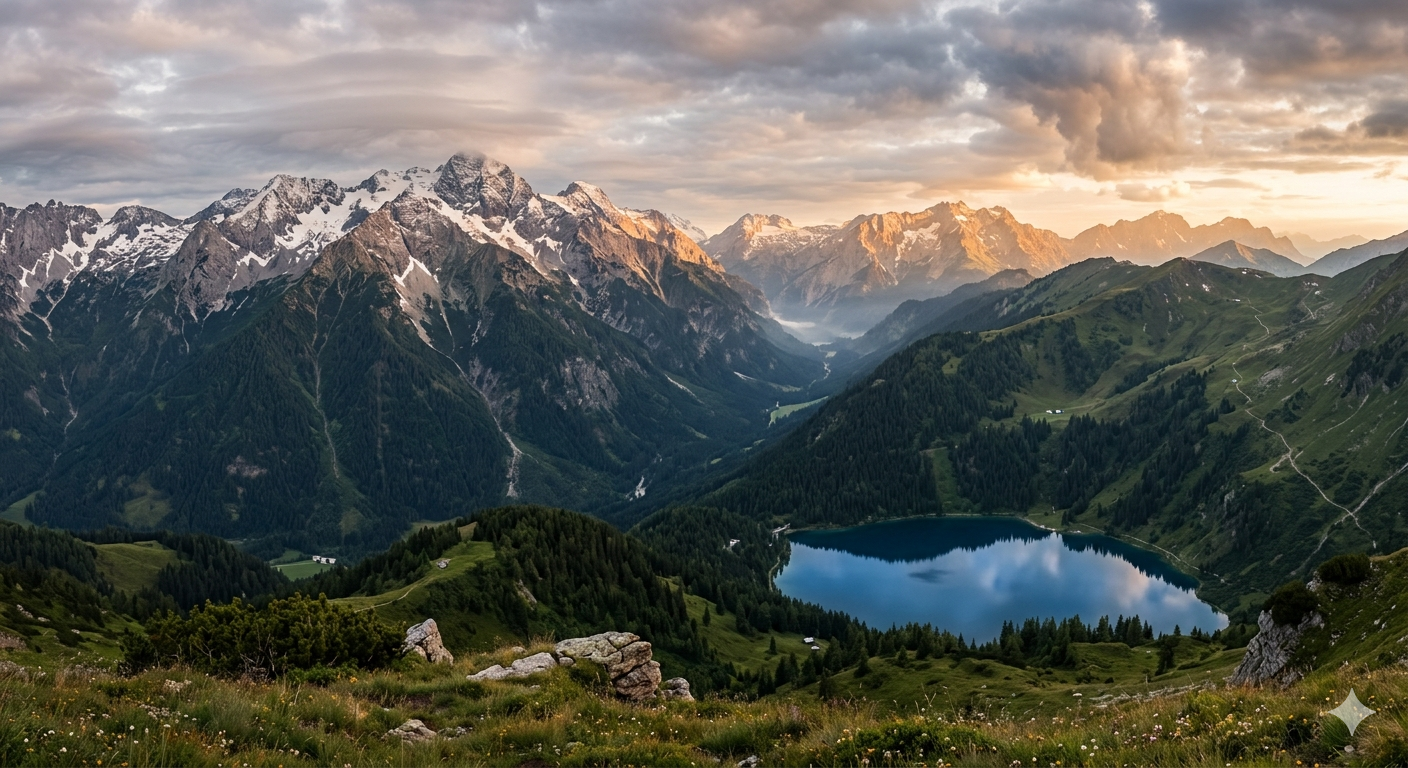
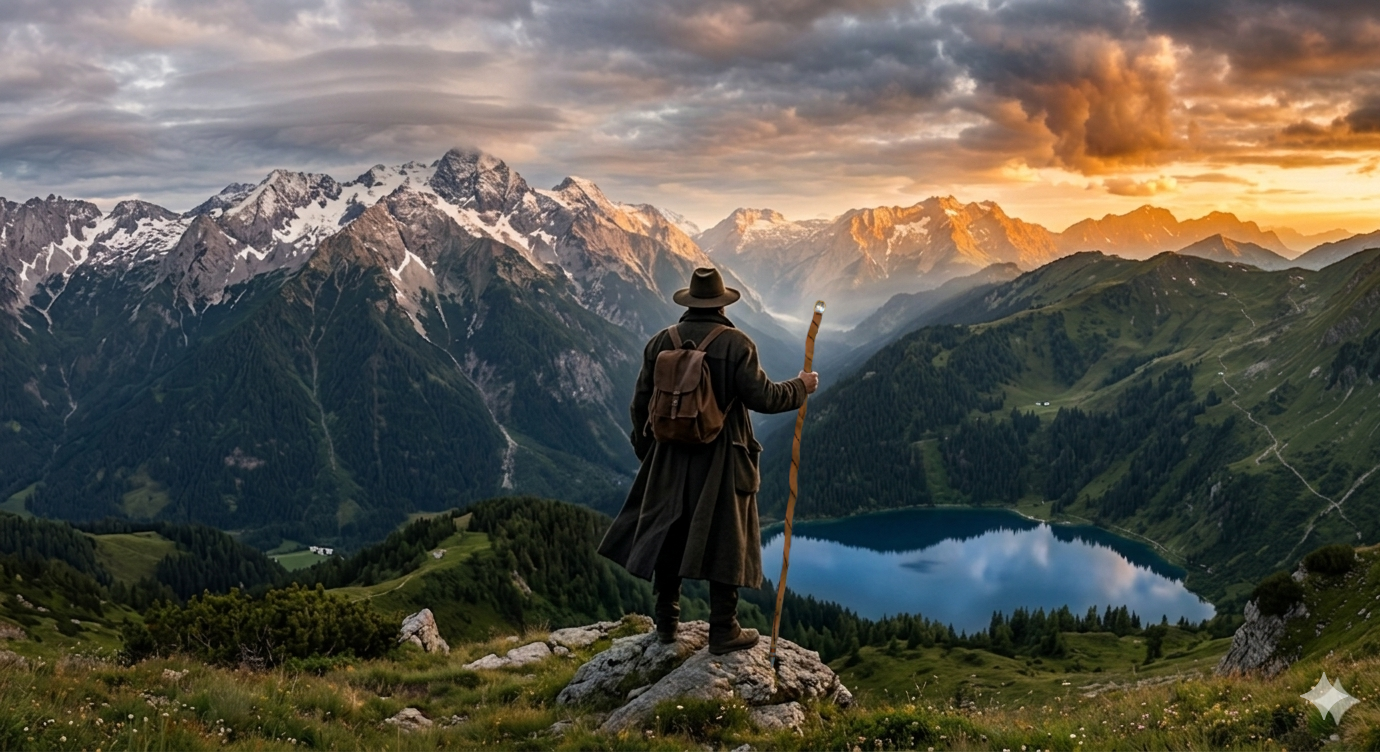
some updates

diff --git a/www/index.html b/www/index.html
@@ -663,14 +663,14 @@
     <div class="hero-vignette"></div>
 
     <div class="hero-content">
-      <p class="mono-label">Teamspeak &nbsp;·&nbsp; Anarchie &nbsp;·&nbsp; Wahrheit</p>
+      <p class="mono-label">Mumble &nbsp;·&nbsp; CB-Funk &nbsp;·&nbsp; Anarchie &nbsp;·&nbsp; Wahrheit</p>
       <h1 class="glitch" data-text="2BCB">2BCB</h1>
       <p class="hero-subtitle">Das Echo der ungeschminkten Wahrheit</p>
       <p class="hero-tagline">
         Kein Safe-Space. Keine Admins. Keine Regeln.<br>
         Nur dein wahres, ungeschminktes Ich.
       </p>
-      <a href="ts3server://2bcb.com" class="btn">Server betreten</a>
+      <a href="mumble://2bcb.feste-ip.net:64738" class="btn">Server betreten</a>
     </div>
 
     <div class="scroll-indicator">
@@ -689,10 +689,32 @@
           <div class="red-rule"></div>
 
           <p>
-            <strong>2BCB</strong> ist kein gewöhnlicher TeamSpeak-Server.
+            <strong>2BCB</strong> ist kein gewöhnlicher Mumble-Server.
             Er ist ein radikaler Freiraum ohne Regeln, Gesetze oder Administratoren,
             die in dein Handeln eingreifen – inspiriert durch die erbarmungslose
             Freiheit des legendären Minecraft-Servers <strong>2b2t.org</strong>.
+          </p>
+          <p>
+            Das <strong>CB</strong> in 2BCB steht für <strong>CB-Funk</strong> – und wie
+            im echten CB-Funk gilt auch hier: Es gibt keine Regeln,
+            sieht man einmal vom vorgeschriebenen Verwendungszweck der CB-Kanäle ab.
+            Jeder sendet. Jeder hört. Niemand schreibt vor, was gesagt werden darf.
+          </p>
+          <p>
+            Im CB-Funk existieren sogenannte <strong>Gateways</strong> – Brücken, die
+            analogen Funkverkehr über das Internet tunneln und so weit entfernte
+            Stationen miteinander verbinden. Chat-Server wie Mumble oder TeamSpeak
+            erfüllen dabei exakt diese Rolle: Sie sind die digitale Leitung,
+            durch die Stimmen reisen, die sonst nie zueinander gefunden hätten.
+          </p>
+          <p>
+            Auch <strong>2BCB</strong> ist ein solches <strong>Gate</strong> –
+            aber kein bloßes Relay für Funkwellen. Es ist ein Tor in eine Zukunft,
+            in der <strong>Wahrheit und Authentizität</strong> Gesetze und Strafgerichte
+            vollständig ersetzen. Eine Zukunft, in der Religionen durch
+            <strong>entfesselte Kreativität</strong> abgelöst werden, in der der Mensch
+            nicht mehr durch Angst vor Strafe oder Verdammnis gelenkt wird,
+            sondern durch das, was er in seiner tiefsten Freiheit wirklich ist.
           </p>
           <p>
             In einer Welt voller Regeln ist der Mensch nur deshalb <strong>„gut"</strong>,
@@ -808,11 +830,11 @@
 
         <div class="feature-card reveal">
           <span class="feature-icon">🎙</span>
-          <h3 class="feature-title">TeamSpeak 3 &amp; 5</h3>
+          <h3 class="feature-title">Mumble Server</h3>
           <p class="feature-text">
-            Erreichbar über den klassischen TeamSpeak 3 Client sowie den modernen
-            TeamSpeak 5 Client. Ein Klick, und du bist mitten im Experiment.
-            Adresse: <strong style="color:var(--red)">2bcb.com</strong>
+            Erreichbar über jeden Mumble-Client. Ein Klick, und du bist mitten im Experiment.
+            Adresse: <strong style="color:var(--red)">2bcb.feste-ip.net</strong> &nbsp;·&nbsp;
+            Port: <strong style="color:var(--red)">64738</strong>
           </p>
         </div>
       </div>
@@ -868,7 +890,7 @@
         Minecraft-Server der Welt. Kein Ort für schwache Gemüter.
         Kein Platz für Heuchler.
       </p>
-      <a href="ts3server://2bcb.com" class="btn" style="margin-top:2.5rem;">Ich bin bereit</a>
+      <a href="mumble://2bcb.feste-ip.net:64738" class="btn" style="margin-top:2.5rem;">Ich bin bereit</a>
     </div>
   </section>
 
@@ -882,16 +904,28 @@
       </div>
 
       <div class="connect-inner reveal">
-        <div class="ts-badge">🎙 &nbsp; TeamSpeak 3 &amp; 5 kompatibel</div>
+        <div class="ts-badge">🎙 &nbsp; Mumble &nbsp;·&nbsp; Port 64738</div>
         <br>
-        <div class="ts-address" id="tsAddr" onclick="copyAddr()" title="Klicken zum Kopieren">2bcb.com</div>
-        <p class="copy-hint">← Klicken zum Kopieren</p>
+        <div class="ts-address" id="tsAddr" onclick="copyAddr()" title="Klicken zum Kopieren">2bcb.feste-ip.net</div>
+        <p class="copy-hint">← Klicken zum Kopieren &nbsp;·&nbsp; Port: 64738</p>
         <p id="copy-confirm">✓ &nbsp; Adresse kopiert!</p>
         <p class="connect-desc">
-          Trage die Adresse manuell in deinen TeamSpeak-Client ein,
+          Trage die Adresse manuell in deinen Mumble-Client ein (Port: <strong style="color:var(--white)">64738</strong>),
           oder klicke auf „Direkt verbinden", um den Client automatisch zu starten.
         </p>
-        <a href="ts3server://2bcb.com" class="btn" style="margin-top:1.8rem;">Direkt verbinden</a>
+        <a href="mumble://2bcb.feste-ip.net:64738" class="btn" style="margin-top:1.8rem;">Direkt verbinden</a>
+
+        <div style="margin-top:2.2rem; padding-top:1.8rem; border-top:1px solid rgba(204,0,0,.2); text-align:left;">
+          <p class="section-eyebrow" style="margin-bottom:.6rem;">Hinweis &amp; Haftungsausschluss</p>
+          <p class="connect-desc" style="font-size:.88rem; color:rgba(255,255,255,.35); line-height:1.75;">
+            Der Betreiber dieses Servers übernimmt <strong style="color:rgba(255,255,255,.5)">keine Verantwortung
+            und keine Haftung</strong> für Äußerungen, die auf diesem Server getätigt werden.
+            Es ist jedem Benutzer ausdrücklich erlaubt und freigestellt,
+            andere Nutzer bei Bedarf zu bannen oder stumm zu schalten –
+            ganz ohne Begründung, ganz ohne Erlaubnis.
+            Das ist gelebte Anarchie: <em>Kein Admin. Keine Regeln.</em>
+          </p>
+        </div>
       </div>
     </div>
   </section>
@@ -906,7 +940,7 @@
       <a href="#features">Features</a>
       <a href="#gallery">Atmosphäre</a>
       <a href="#connect">Verbinden</a>
-      <a href="ts3server://2bcb.com">TeamSpeak</a>
+      <a href="mumble://2bcb.feste-ip.net:64738">Mumble</a>
     </nav>
 
     <p class="footer-copy">
@@ -941,7 +975,7 @@
 
     // ── Copy TS address ─────────────────────────────────────
     function copyAddr() {
-      navigator.clipboard.writeText('2bcb.com').then(() => {
+      navigator.clipboard.writeText('2bcb.feste-ip.net').then(() => {
         const msg = document.getElementById('copy-confirm');
         msg.style.display = 'block';
         setTimeout(() => { msg.style.display = 'none'; }, 2800);

diff --git a/server.py b/server.py
@@ -3,18 +3,48 @@
 
 import http.server
 import socketserver
+<<<<<<< HEAD
 import os
 
 PORT = 8080
 DIRECTORY = os.path.join(os.path.dirname(os.path.abspath(__file__)), "www")
+=======
+import logging
+import os
+
+PORT = 8080
+BASE_DIR = os.path.dirname(os.path.abspath(__file__))
+DIRECTORY = os.path.join(BASE_DIR, "www")
+LOG_FILE = os.path.join(BASE_DIR, "log", "server.log")
+
+logging.basicConfig(
+    level=logging.INFO,
+    format="%(asctime)s %(message)s",
+    handlers=[
+        logging.FileHandler(LOG_FILE),
+        logging.StreamHandler(),
+    ],
+)
+logger = logging.getLogger(__name__)
+>>>>>>> 1648e9f (some updates)
 
 
 class Handler(http.server.SimpleHTTPRequestHandler):
     def __init__(self, *args, **kwargs):
         super().__init__(*args, directory=DIRECTORY, **kwargs)
 
+<<<<<<< HEAD
 
 if __name__ == "__main__":
     with socketserver.TCPServer(("", PORT), Handler) as httpd:
         print(f"Serving {DIRECTORY!r} on port {PORT}")
+=======
+    def log_message(self, format, *args):
+        logger.info("%s - %s", self.address_string(), format % args)
+
+
+if __name__ == "__main__":
+    with socketserver.TCPServer(("", PORT), Handler) as httpd:
+        logger.info("Serving %r on port %d", DIRECTORY, PORT)
+>>>>>>> 1648e9f (some updates)
         httpd.serve_forever()
